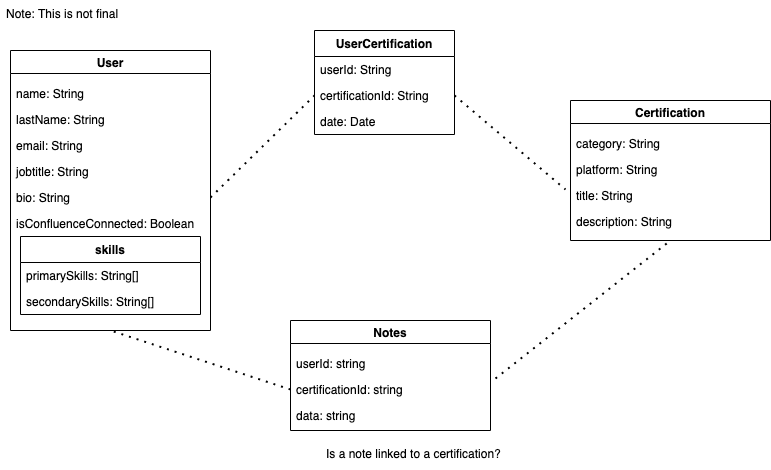
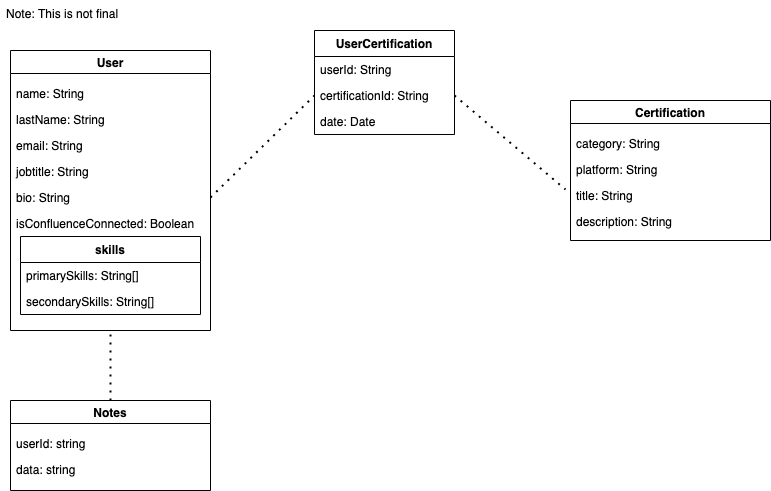
[BENCH-758] Updated Database diagram

diff --git a/functions/README.md b/functions/README.md
@@ -73,7 +73,6 @@ If the token is not valid, the function will return an `HTTP 401 - Unauthorized`
 | surname   | string |
 | jobtitle  | string |
 | bio       | string |
-| Response  | string |
 
 ### Response model
 
